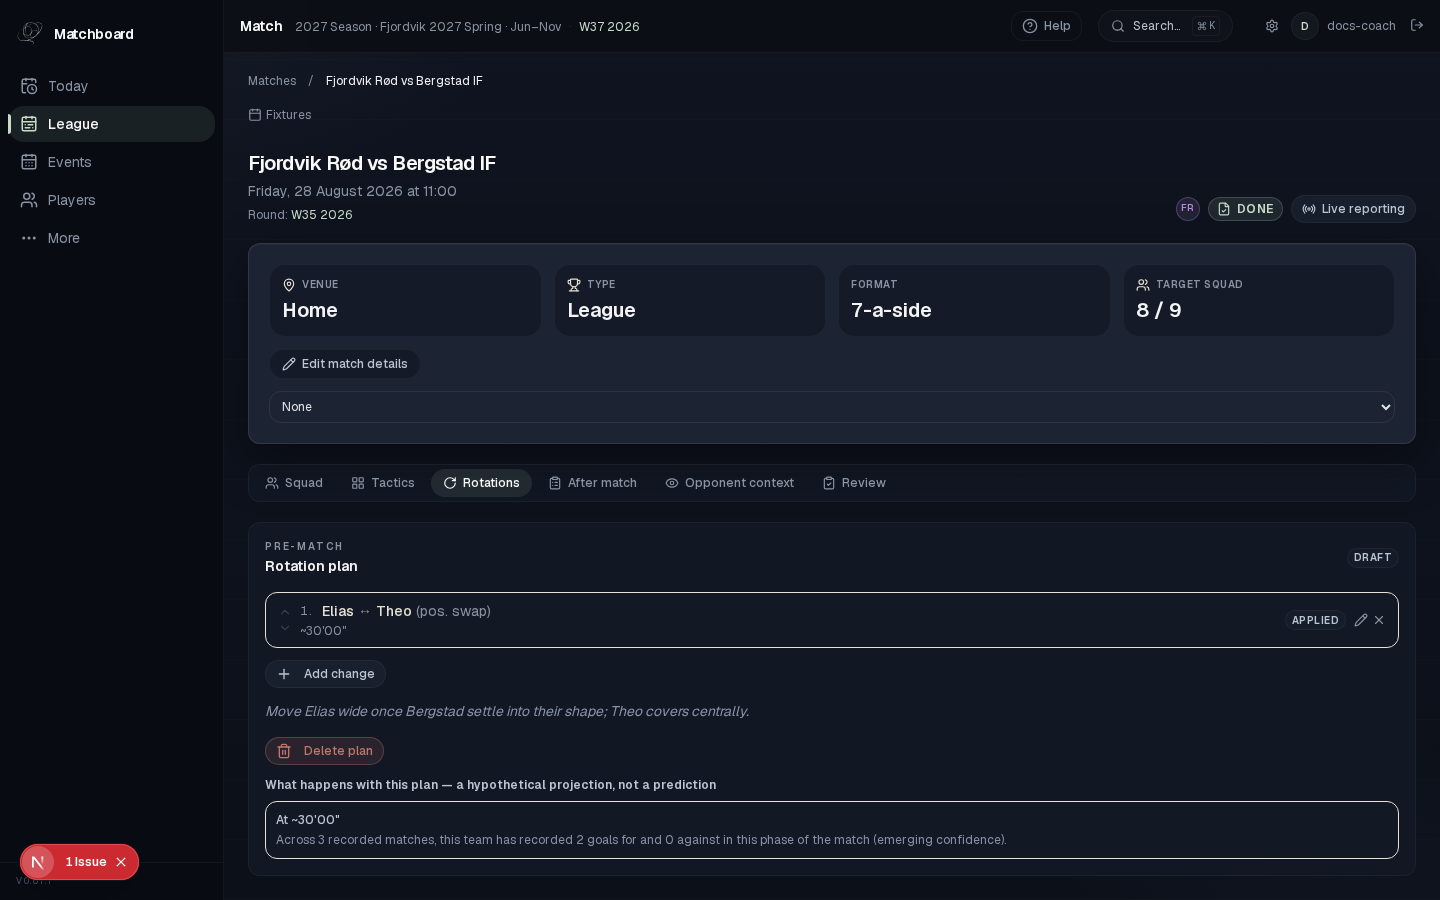
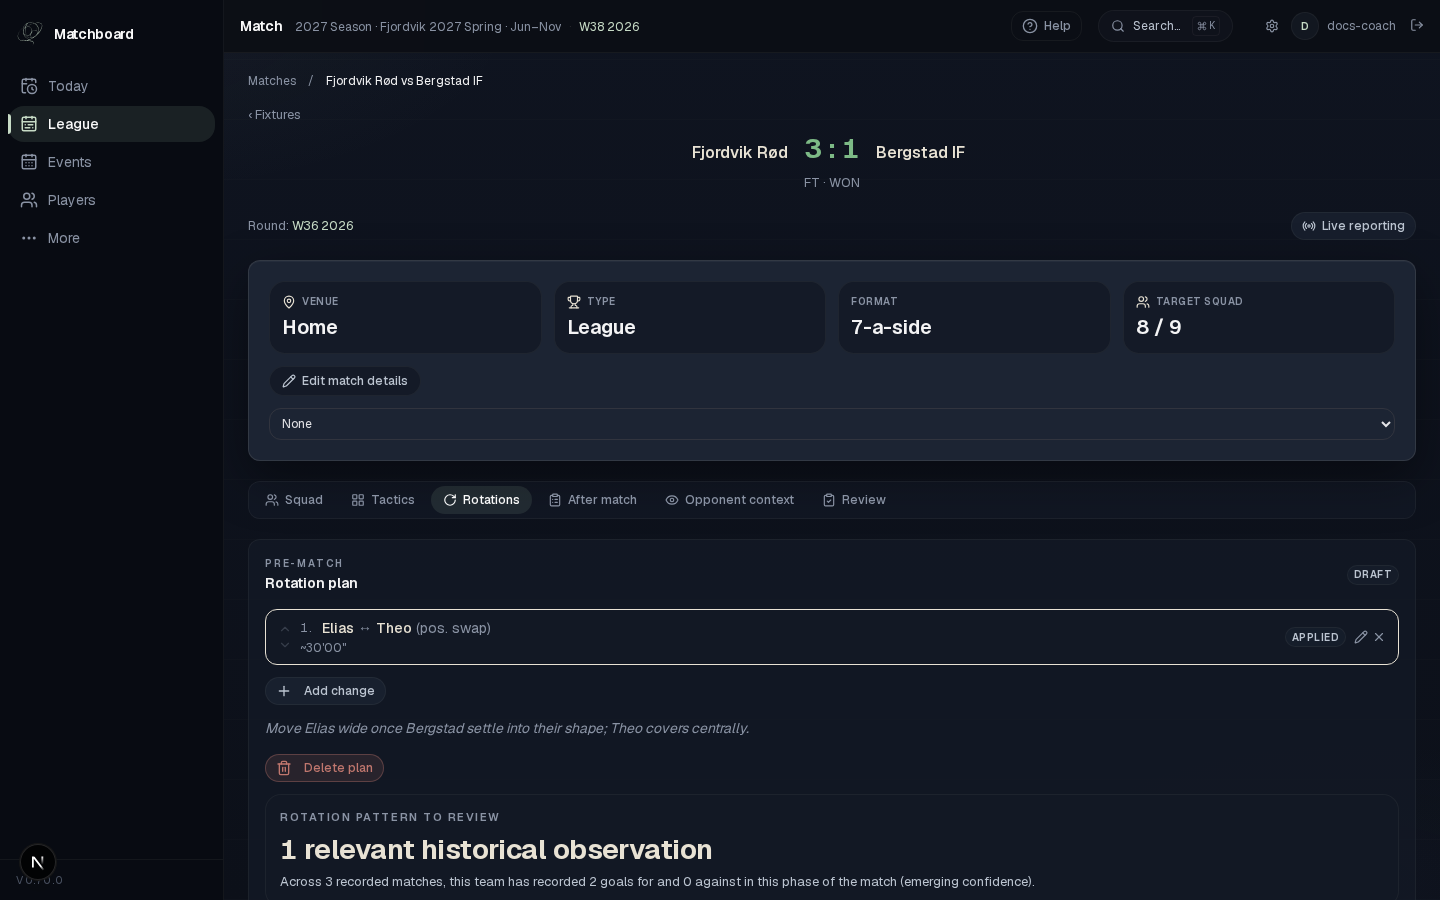
docs: regenerate documentation screenshots for the reference-convergence surfaces
Regenerated all 13 committed documentation screenshots from a fresh Fjordvik FK
docs dataset (`npm run db:seed:docs` + `npm run docs:screenshots`). The
reference-convergence UI changes are visible and verified in:

- getting-started/today-overview — new Today composition (Next Action → next
  round → blockers → At a glance)
- fixtures/fixtures-league-season — canonical MatchScoreRow grammar (stacked
  home/away, right-aligned value lane, FT · WON/DRAW/LOST, divider rows)
- planning/planned-rotations — MatchHeader on match detail ("Fjordvik Rød 3 : 1
  Bergstad IF / FT · WON") + the "Rotation pattern to review" MetricStory
- planning/match-starting-plan — MatchHeader for a scheduled match (kickoff time
  in the value lane, "FRI 18 SEPT · PLANNING CLOSED")
- planning/round-board-plan-integrity-mobile — kickoff time in the compact
  match-selector tabs

The remaining images refresh only their seeded dates/data (the docs dataset
anchors to real "now"), keeping the set internally consistent.

diff --git a/docs/adr/0125-reference-convergence-match-presentation-timeline-evidence-story.md b/docs/adr/0125-reference-convergence-match-presentation-timeline-evidence-story.md
@@ -148,7 +148,13 @@ reduced motion. Existing Matchboard colour tokens only — no reference-app colo
 
 - One match projection and three variants replace per-surface match rows (Fixtures
   `MatchTicket`, Today's bespoke `TodayMatchRow`, Events' bespoke `EventMatchCard`),
-  reducing drift and screenshot churn.
+  reducing drift and screenshot churn. `MatchHeader` is used on League match detail and
+  Follow Live; Live Reporting keeps a compact one-row sticky scoreboard (an explicit
+  operational-focus density exception) that still follows football home→away order.
+- `TodayMatch` gains `homeScore`/`awayScore` (home/away oriented, from the post-match
+  report) so the Today timeline shows a scoreline + W/D/L for a played match. There is no
+  server-side live-score aggregation, so a live match with no report row shows state + the
+  "Follow live" action instead.
 - `docs/product/adaptive-interaction-design.md` gains the precise timeline anatomy, the
   three match variants, the seven-primitive set, the fixed story mappings, and the visual
   grammar values. `AGENTS.md`'s "Adaptive interaction design" section is updated to match.

diff --git a/docs/product/adaptive-interaction-design.md b/docs/product/adaptive-interaction-design.md
@@ -304,6 +304,16 @@ canonical match grammar, typography, safe-area, and touch rules. Preserve: live 
 mutable, Follow Live is read-only, score/clock/on-field state derives from canonical live state,
 refresh does not change truth. Do not merge read-only and mutating interaction patterns.
 
+- **Follow Live** and **League match detail** use the full `MatchHeader` variant for the match
+  identity.
+- **Live Reporting** keeps a compact **one-row** sticky scoreboard — a deliberate
+  operational-focus density exception so the live action buttons stay above the fold — but it
+  follows canonical football home→away order and marks the own team by a subtle name accent, not
+  a score colour.
+- The Today operational timeline shows a scoreline + W/D/L for a played match once a post-match
+  report exists; a live match with no report row shows state + the "Follow live" action (there
+  is no server-side live-score aggregation to read here).
+
 ## 13. Data-visualization grammar
 
 Do not start by choosing a chart library. Every visualization answers a concrete question. Model:
